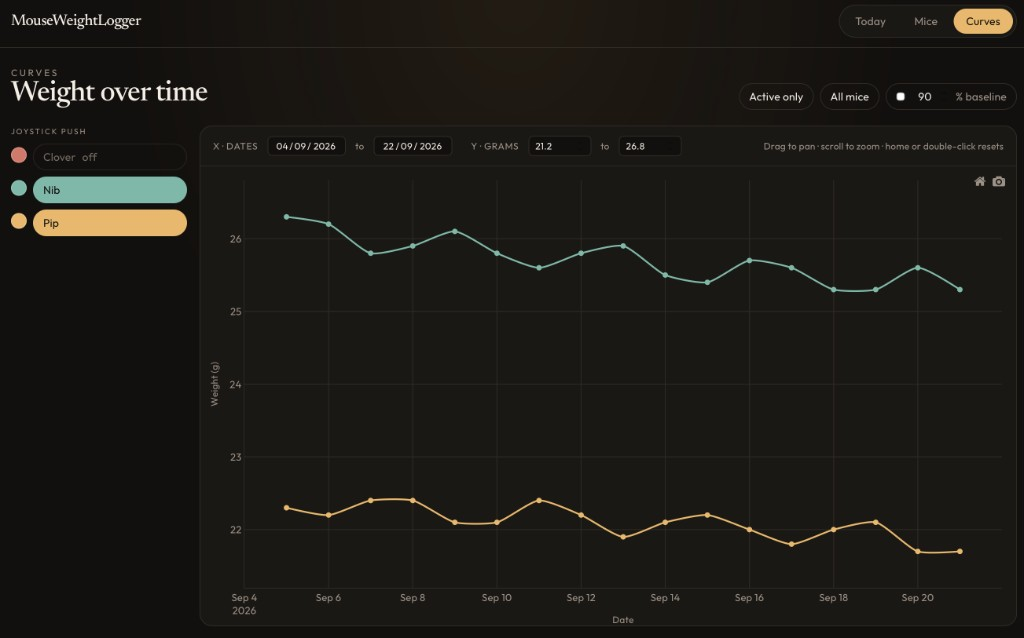
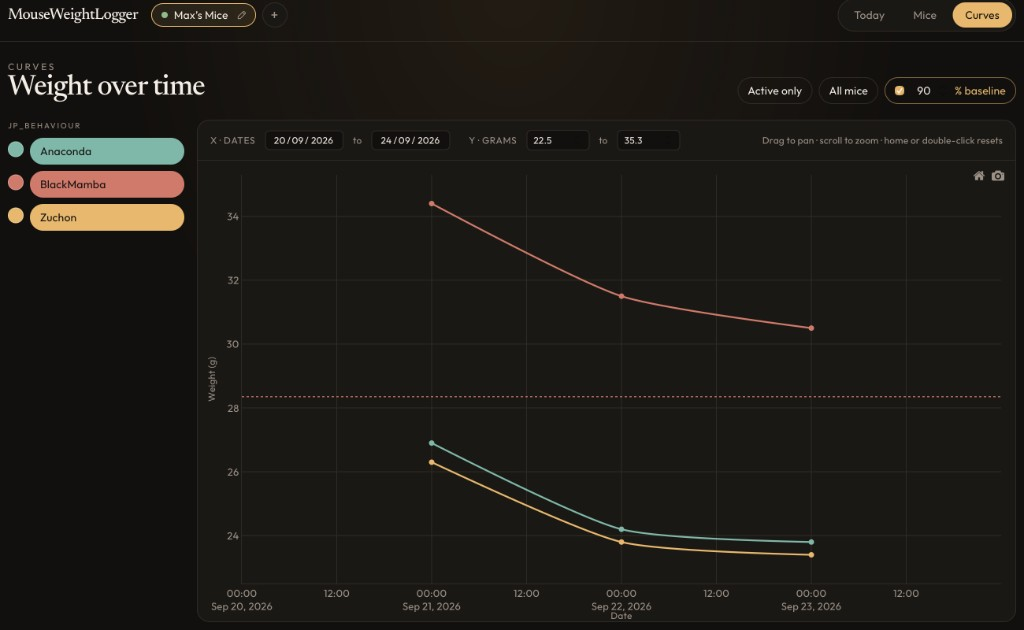
Refresh README screenshots and tighten the intro.
Add colony drawer shots, update Today/Mice/Curves, and move sharing and sync details into a How it works section.

diff --git a/README.md b/README.md
@@ -4,27 +4,28 @@
   <img src="src-tauri/icons/128x128.png" width="96" alt="MouseWeightLogger icon" />
 </p>
 
-Local desktop app for daily mouse weigh-ins, colony metadata, and interactive weight curves. Runs on macOS, Windows, and Linux. The log lives in SQLite on this computer and works offline. Sharing a colony with another computer is optional.
-
-## What it does
-
-- **Today** — weigh active mice for the day. Cards show ♀ / ♂, age, last weight, and % of a configurable baseline.
-- **Mice** — roster grouped by experiment / cohort. Add, edit, inactivate, or delete. Each mouse gets a unique plot color; photos and extra fields (strain, genotype, cage, ear mark, notes) are optional. One CSV export includes mice and daily weights.
-- **Curves** — interactive Plotly viewer. Pick mice or a whole cohort, drag to pan, scroll to zoom, home / double-click to reset. Save a PNG with the legend.
+Daily mouse weigh-ins, a colony roster, and weight curves. Local on your computer, offline-first. Share a colony with another machine when you want to.
 
 ## Screenshots
 
-**Today**
+**Today** — weigh-in cards with sex, age, last weight, and % of baseline.
 
 <img src="docs/screenshots/today.png" alt="Today weigh-in screen" width="960" />
 
-**Mice**
+**Mice** — roster by cohort, CSV export, photos and metadata.
 
 <img src="docs/screenshots/mice.png" alt="Mice roster grouped by cohort" width="960" />
 
-**Curves**
+**Curves** — pan, zoom, baseline line, PNG export.
 
 <img src="docs/screenshots/curves.png" alt="Weight curves viewer" width="960" />
+
+**Colonies** — header pills. **+** creates or joins; the pencil edits, shares, or removes.
+
+<p>
+  <img src="docs/screenshots/colony-add.png" alt="Add a colony or join with a code" width="470" />
+  <img src="docs/screenshots/colony-edit.png" alt="Edit colony, share, remove from this computer" width="470" />
+</p>
 
 ## Run
 
@@ -35,41 +36,53 @@ npm install
 npm run tauri dev
 ```
 
-## Build a desktop installer
+Build an installer: `npm run tauri build`
 
-```bash
-npm run tauri build
-```
+## How it works
 
-## Sharing a colony
+### On this computer
 
-Each install can keep several colonies. They do not share mice or weights. The first time you open the app, the log on this computer becomes a colony named **This computer** and stays private until you share it.
+Each install keeps its own SQLite database and photo folder under the OS app-data path (macOS: `~/Library/Application Support/com.maxchalabi.mouseweightlogger/`). Everything works offline. Weigh-ins, roster edits, and curve settings stay on disk until you share.
 
-Colonies sit in the header as pills.
+### Colonies
 
-- Click a pill’s name to show that colony on Today, Mice, and Curves.
-- The pencil opens that colony: rename it, invite another computer, or remove it from this computer.
-- **+** creates a colony on this computer, or joins one with a code.
+A **colony** is one log: its mice, weights, settings, and photos. The header pill selects which colony Today, Mice, and Curves show. You can keep several colonies on one machine; they do not mix data.
 
-An owner invites another computer as an owner (edit, delete, invite) or a watcher (view only, CSV export still works). The other computer types that code and nothing else. Codes expire after 7 days and work once.
+The first launch creates **This computer** as a private colony. **+** adds another local colony or joins an existing one with an invite code.
 
-Removing a colony drops it from this computer. Other computers that still have it keep their copy. If this is the last computer, the shared colony is deleted too. The app says which of those will happen before you confirm.
+### Sharing
 
-While you are offline, owner edits stay on this computer and upload the next time the shared colony can be reached. If two owners change the same mouse or the same weigh-in, the later edit wins.
+Sharing is built in. An owner opens the pencil drawer and taps **Invite an owner** or **Invite a watcher**. The app shows a one-time code; the other computer types it in **+ → Join colony**. No accounts, no setup screen.
 
-## Data
-
-The database and imported photos live in the OS app-data directory, not in this repo:
-
-| OS | Path |
+| Role | Can do |
 | --- | --- |
-| macOS | `~/Library/Application Support/com.maxchalabi.mouseweightlogger/` |
-| Windows | `%APPDATA%\com.maxchalabi.mouseweightlogger\` |
-| Linux | `~/.local/share/com.maxchalabi.mouseweightlogger/` |
+| Owner | Edit mice and weights, invite, rename the colony, remove devices |
+| Watcher | View Today, Mice, Curves; export CSV |
+
+Codes expire after 7 days and work once.
+
+**Remove from this computer** drops the colony from this machine only, unless you are the last computer that still has it—in that case the shared colony is deleted everywhere. The confirmation says which applies.
+
+While offline, owner edits queue locally and upload on the next sync. If two owners change the same mouse or the same day’s weight, the later edit wins.
+
+### Sync backend
+
+Shared colonies sync through a hosted [Supabase](https://supabase.com/) project baked into the app (`src/lib/sync-config.ts`). The anon key ships in the client; row-level security limits each device to colonies it belongs to. Edge Functions hold the service role and handle device identity, colony creation, invites, and membership.
+
+Rough flow:
+
+1. **Device session** — first share or join registers this computer as a device user (no email login in the UI).
+2. **Share** — uploads the local colony (mice, weights, settings, photos) and returns invite codes.
+3. **Join** — redeems a code and pulls the colony down into local SQLite.
+4. **Sync loop** — owners push dirty rows and pull remote changes; watchers pull only. Photos use object storage keyed by `{colony_id}/{mouse_id}`.
+
+Local schema lives in `src-tauri/migrations/` and `src/lib/db.ts`. Server schema and functions are under `supabase/`. Soft deletes (`deleted_at`) and `updated_at` timestamps drive merge; the active colony syncs on a timer, on window focus, and on realtime notifications.
+
+When the last member leaves, `set-member` deletes the colony row, related data, and stored photos on the server.
 
 ## Stack
 
-Tauri 2, React, TypeScript, Tailwind, SQLite (`tauri-plugin-sql`), Plotly. Optional colony sync uses Supabase.
+Tauri 2, React, TypeScript, Tailwind, SQLite (`tauri-plugin-sql`), Plotly, Supabase.
 
 ## License
 
